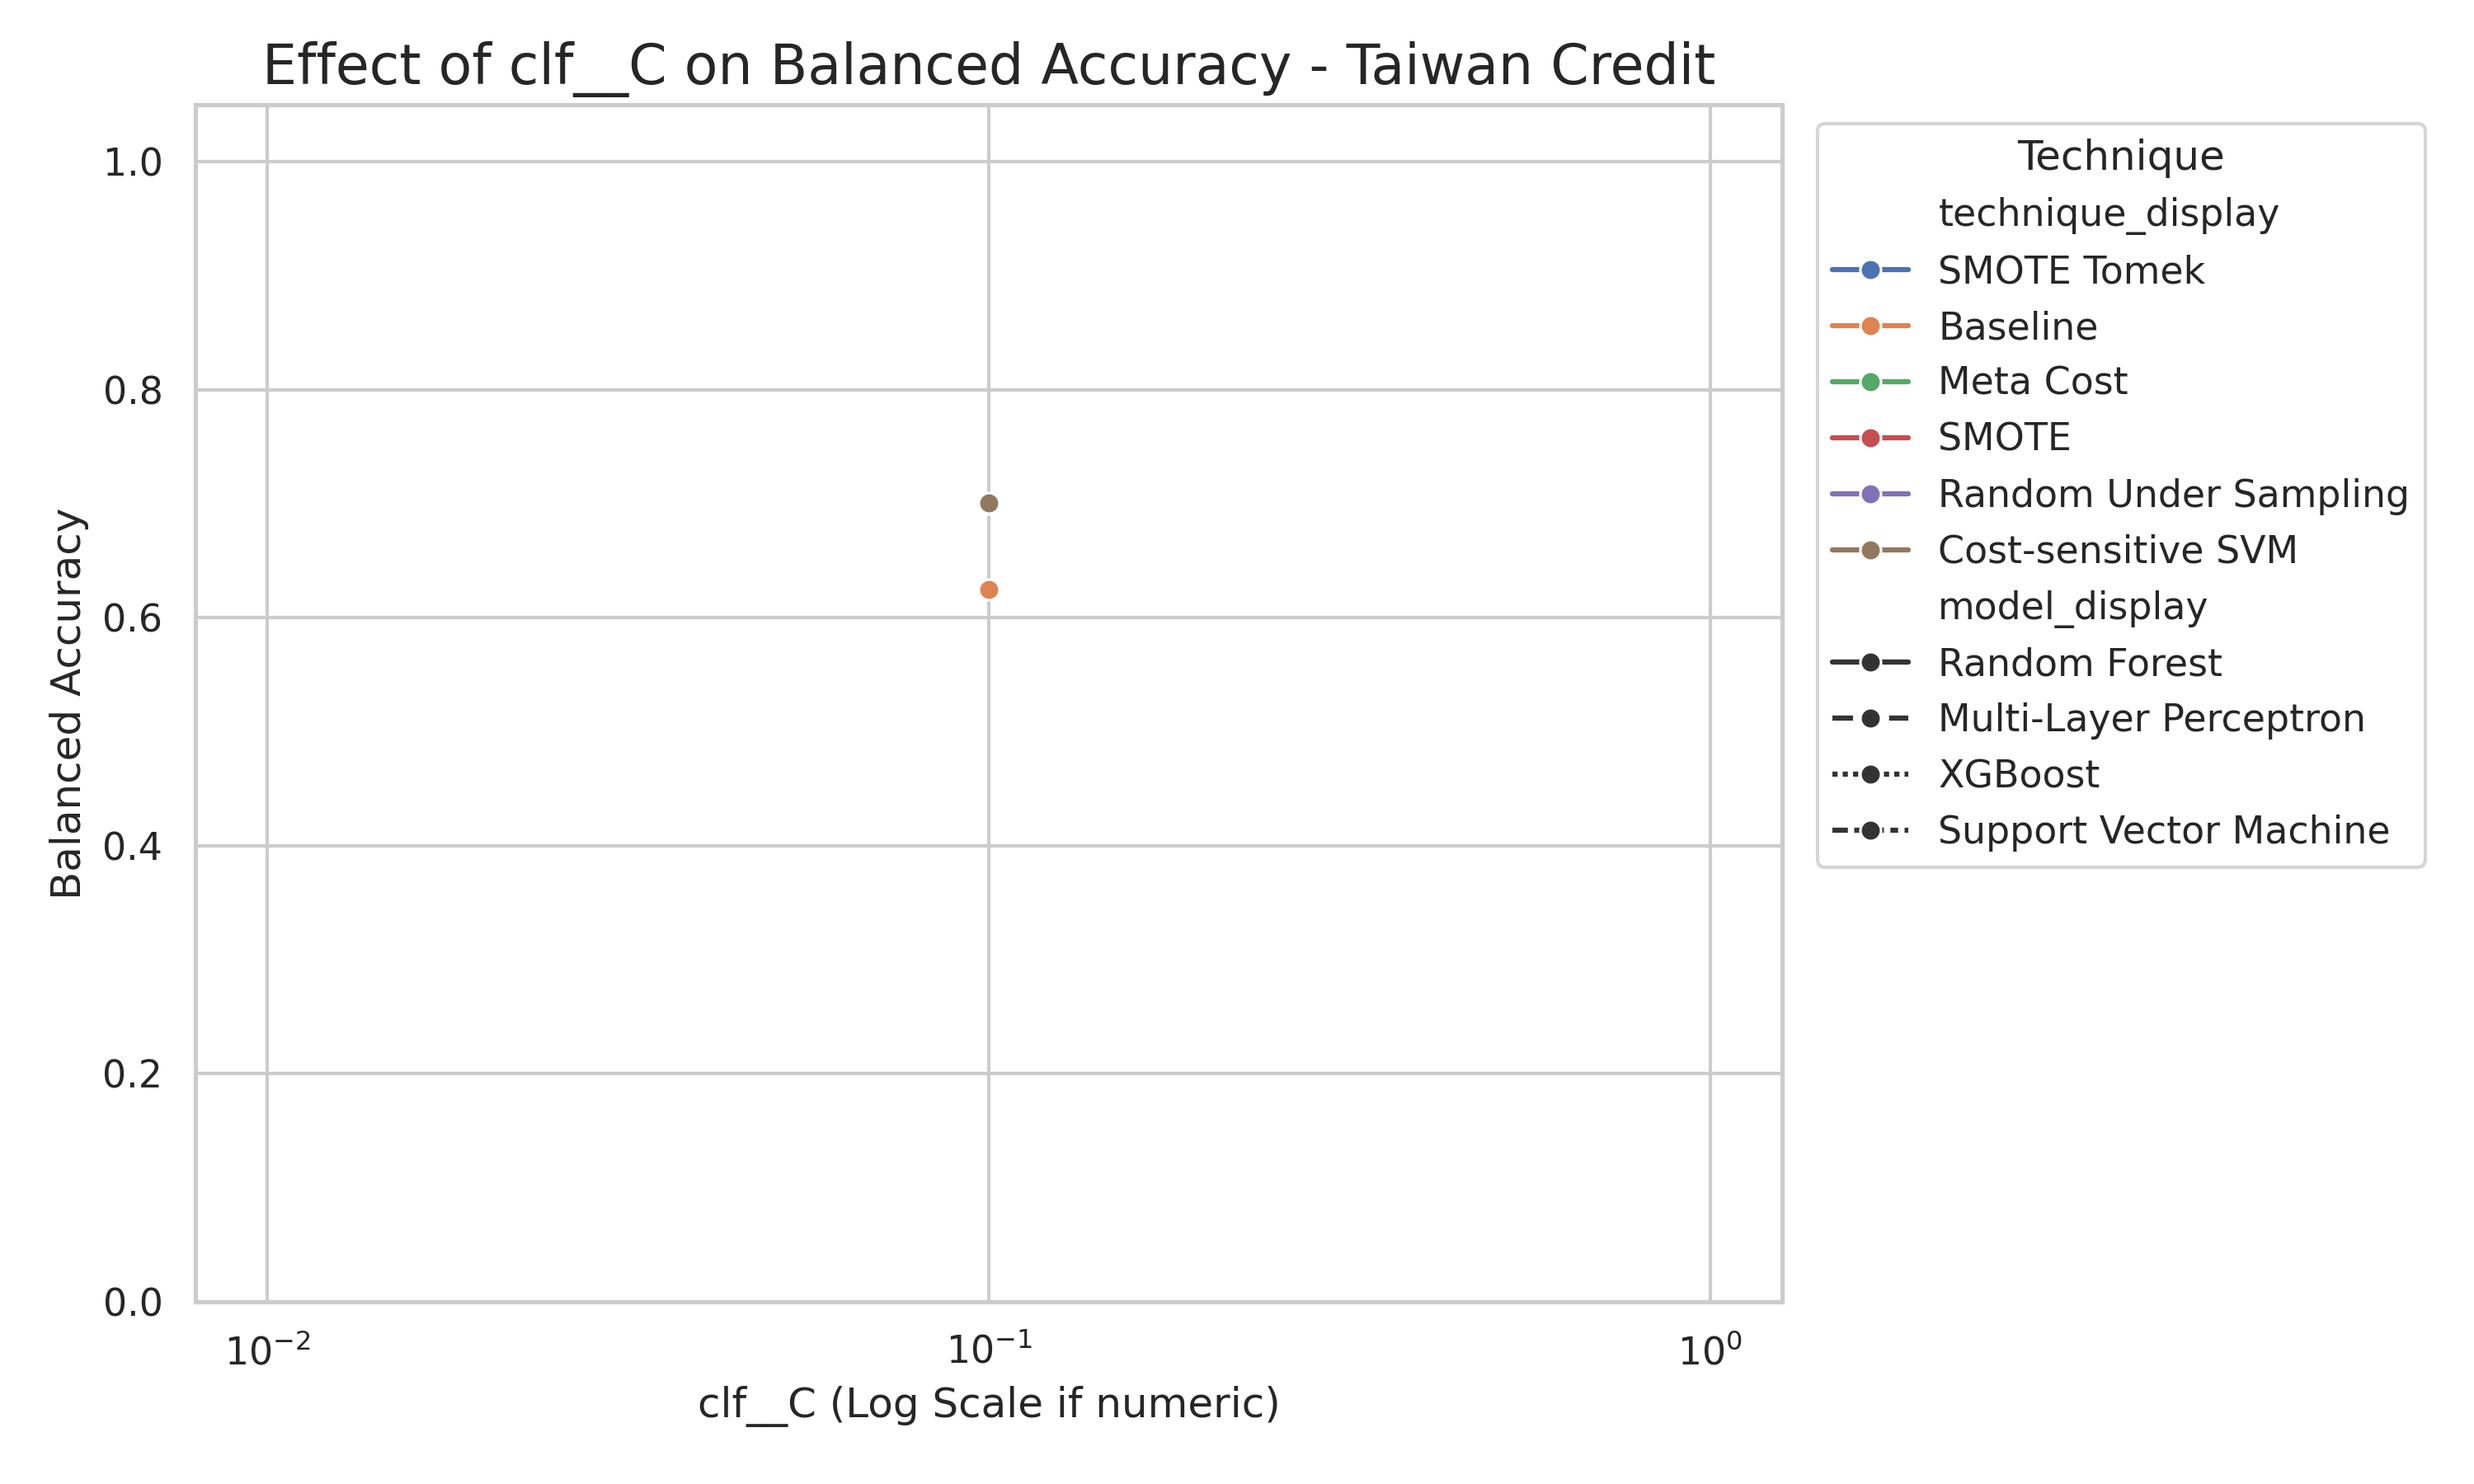
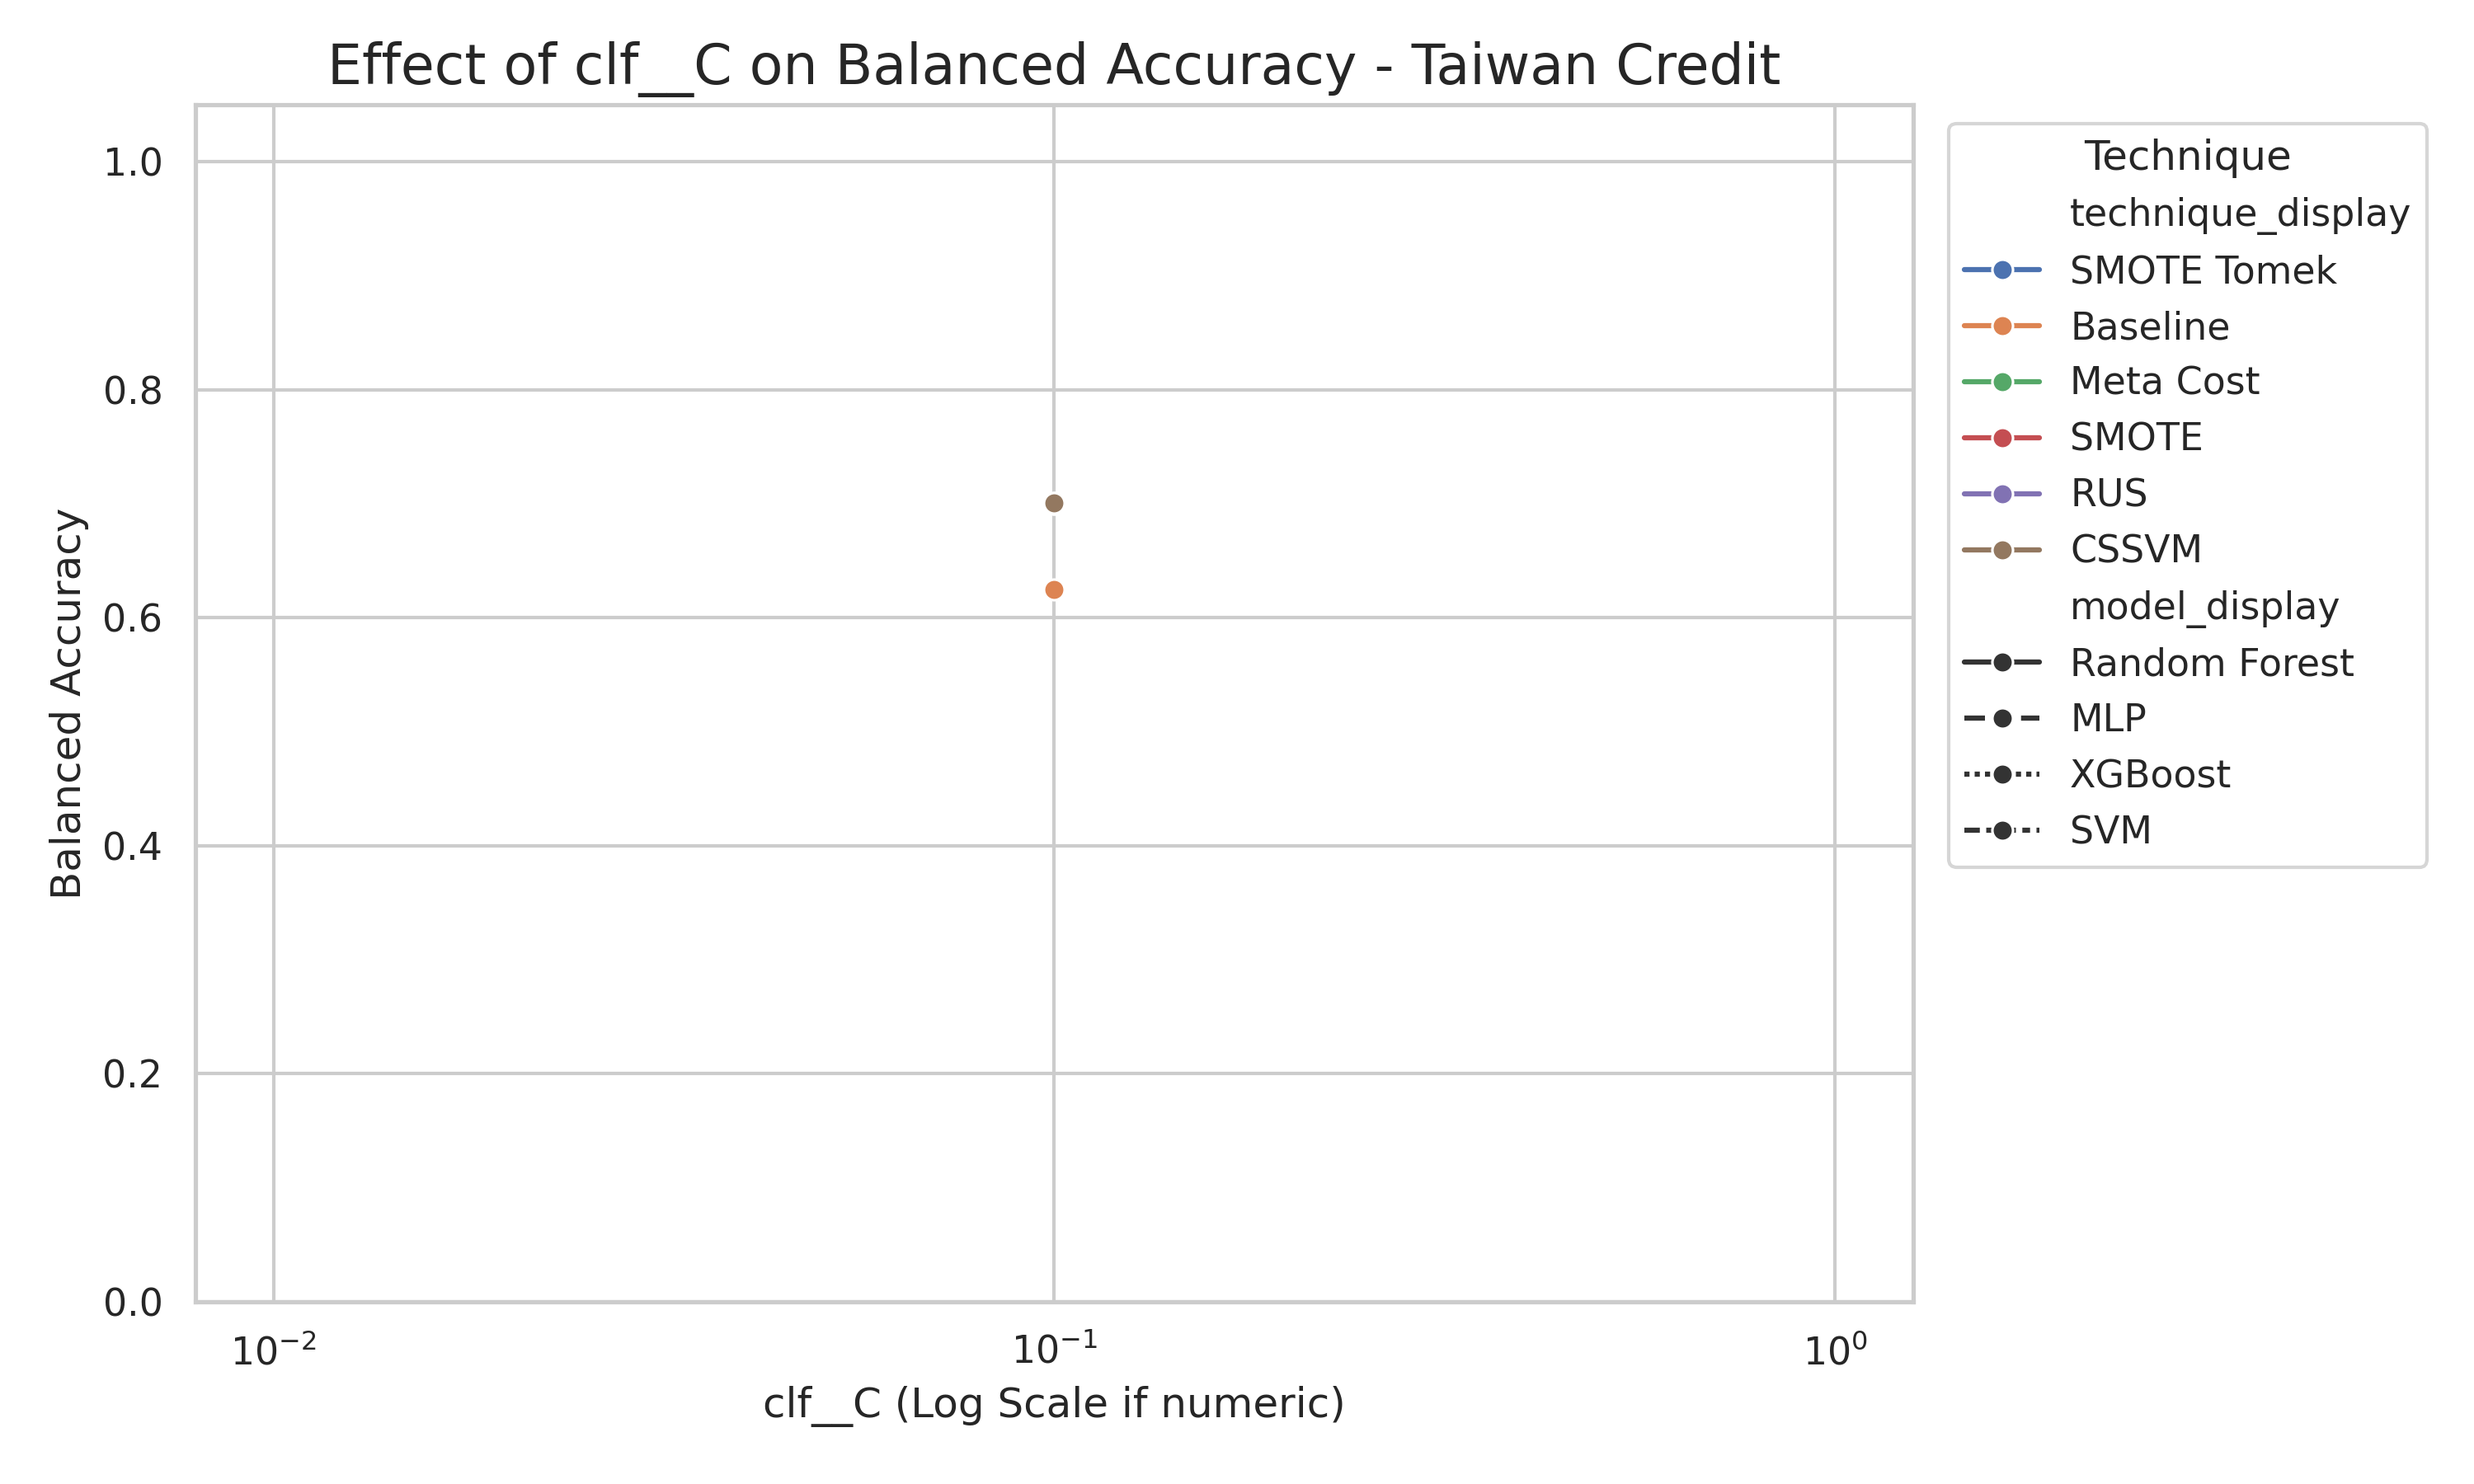
utilizar sigla nos identificadores das técnicas

diff --git a/experimentos/experiments/cli/analysis.py b/experimentos/experiments/cli/analysis.py
@@ -15,6 +15,7 @@ from typing_extensions import Annotated
 
 from experiments.context import Context
 from experiments.core.data import Dataset
+from experiments.core.modeling.types import ModelType, Technique
 
 MODULE_NAME = "experiments.cli.analysis"
 
@@ -66,37 +67,26 @@ def _setup_i18n(language: _Language):
 
 def _get_model_display(model_id: str) -> str:
     """Returns the translated display name for a model."""
-    # Map IDs to translatable strings
-    mapping = {
-        "random_forest": _("Random Forest"),
-        "svm": _("Support Vector Machine"),
-        "xgboost": _("XGBoost"),
-        "mlp": _("Multi-Layer Perceptron"),
-    }
-    return mapping.get(model_id, model_id)
+    try:
+        return _(ModelType.from_id(model_id).display_name)
+    except ValueError:
+        return model_id
 
 
 def _get_technique_display(technique_id: str) -> str:
     """Returns the translated display name for a technique."""
-    mapping = {
-        "baseline": _("Baseline"),
-        "smote": _("SMOTE"),
-        "random_under_sampling": _("Random Under Sampling"),
-        "smote_tomek": _("SMOTE Tomek"),
-        "meta_cost": _("Meta Cost"),
-        "cs_svm": _("Cost-sensitive SVM"),
-    }
-    return mapping.get(technique_id, technique_id)
+    try:
+        return _(Technique.from_id(technique_id).display_name)
+    except ValueError:
+        return technique_id
 
 
 def _get_dataset_display(dataset_id: str) -> str:
     """Returns the translated display name for a dataset."""
-    mapping = {
-        "corporate_credit_rating": _("Corporate Credit Rating"),
-        "lending_club": _("Lending Club"),
-        "taiwan_credit": _("Taiwan Credit"),
-    }
-    return mapping.get(dataset_id, dataset_id)
+    try:
+        return _(Dataset.from_id(dataset_id).display_name)
+    except ValueError:
+        return dataset_id
 
 
 def _load_data(ctx: Context, dataset: Dataset) -> pd.DataFrame:

diff --git a/experimentos/experiments/core/modeling/types.py b/experimentos/experiments/core/modeling/types.py
@@ -7,9 +7,9 @@ class ModelType(enum.Enum):
     """Types of models used in experiments."""
 
     RANDOM_FOREST = Choice("random_forest", "Random Forest")
-    SVM = Choice("svm", "Support Vector Machine")
+    SVM = Choice("svm", "SVM")
     XGBOOST = Choice("xgboost", "XGBoost")
-    MLP = Choice("mlp", "Multi-Layer Perceptron")
+    MLP = Choice("mlp", "MLP")
 
     def __str__(self) -> str:
         return self.id
@@ -47,10 +47,10 @@ class Technique(enum.Enum):
 
     BASELINE = Choice("baseline", "Baseline")
     SMOTE = Choice("smote", "SMOTE")
-    RANDOM_UNDER_SAMPLING = Choice("random_under_sampling", "Random Under Sampling")
+    RANDOM_UNDER_SAMPLING = Choice("random_under_sampling", "RUS")
     SMOTE_TOMEK = Choice("smote_tomek", "SMOTE Tomek")
     META_COST = Choice("meta_cost", "Meta Cost")
-    CS_SVM = Choice("cs_svm", "Cost-sensitive SVM")
+    CS_SVM = Choice("cs_svm", "CSSVM")
 
     def __str__(self) -> str:
         return self.id
